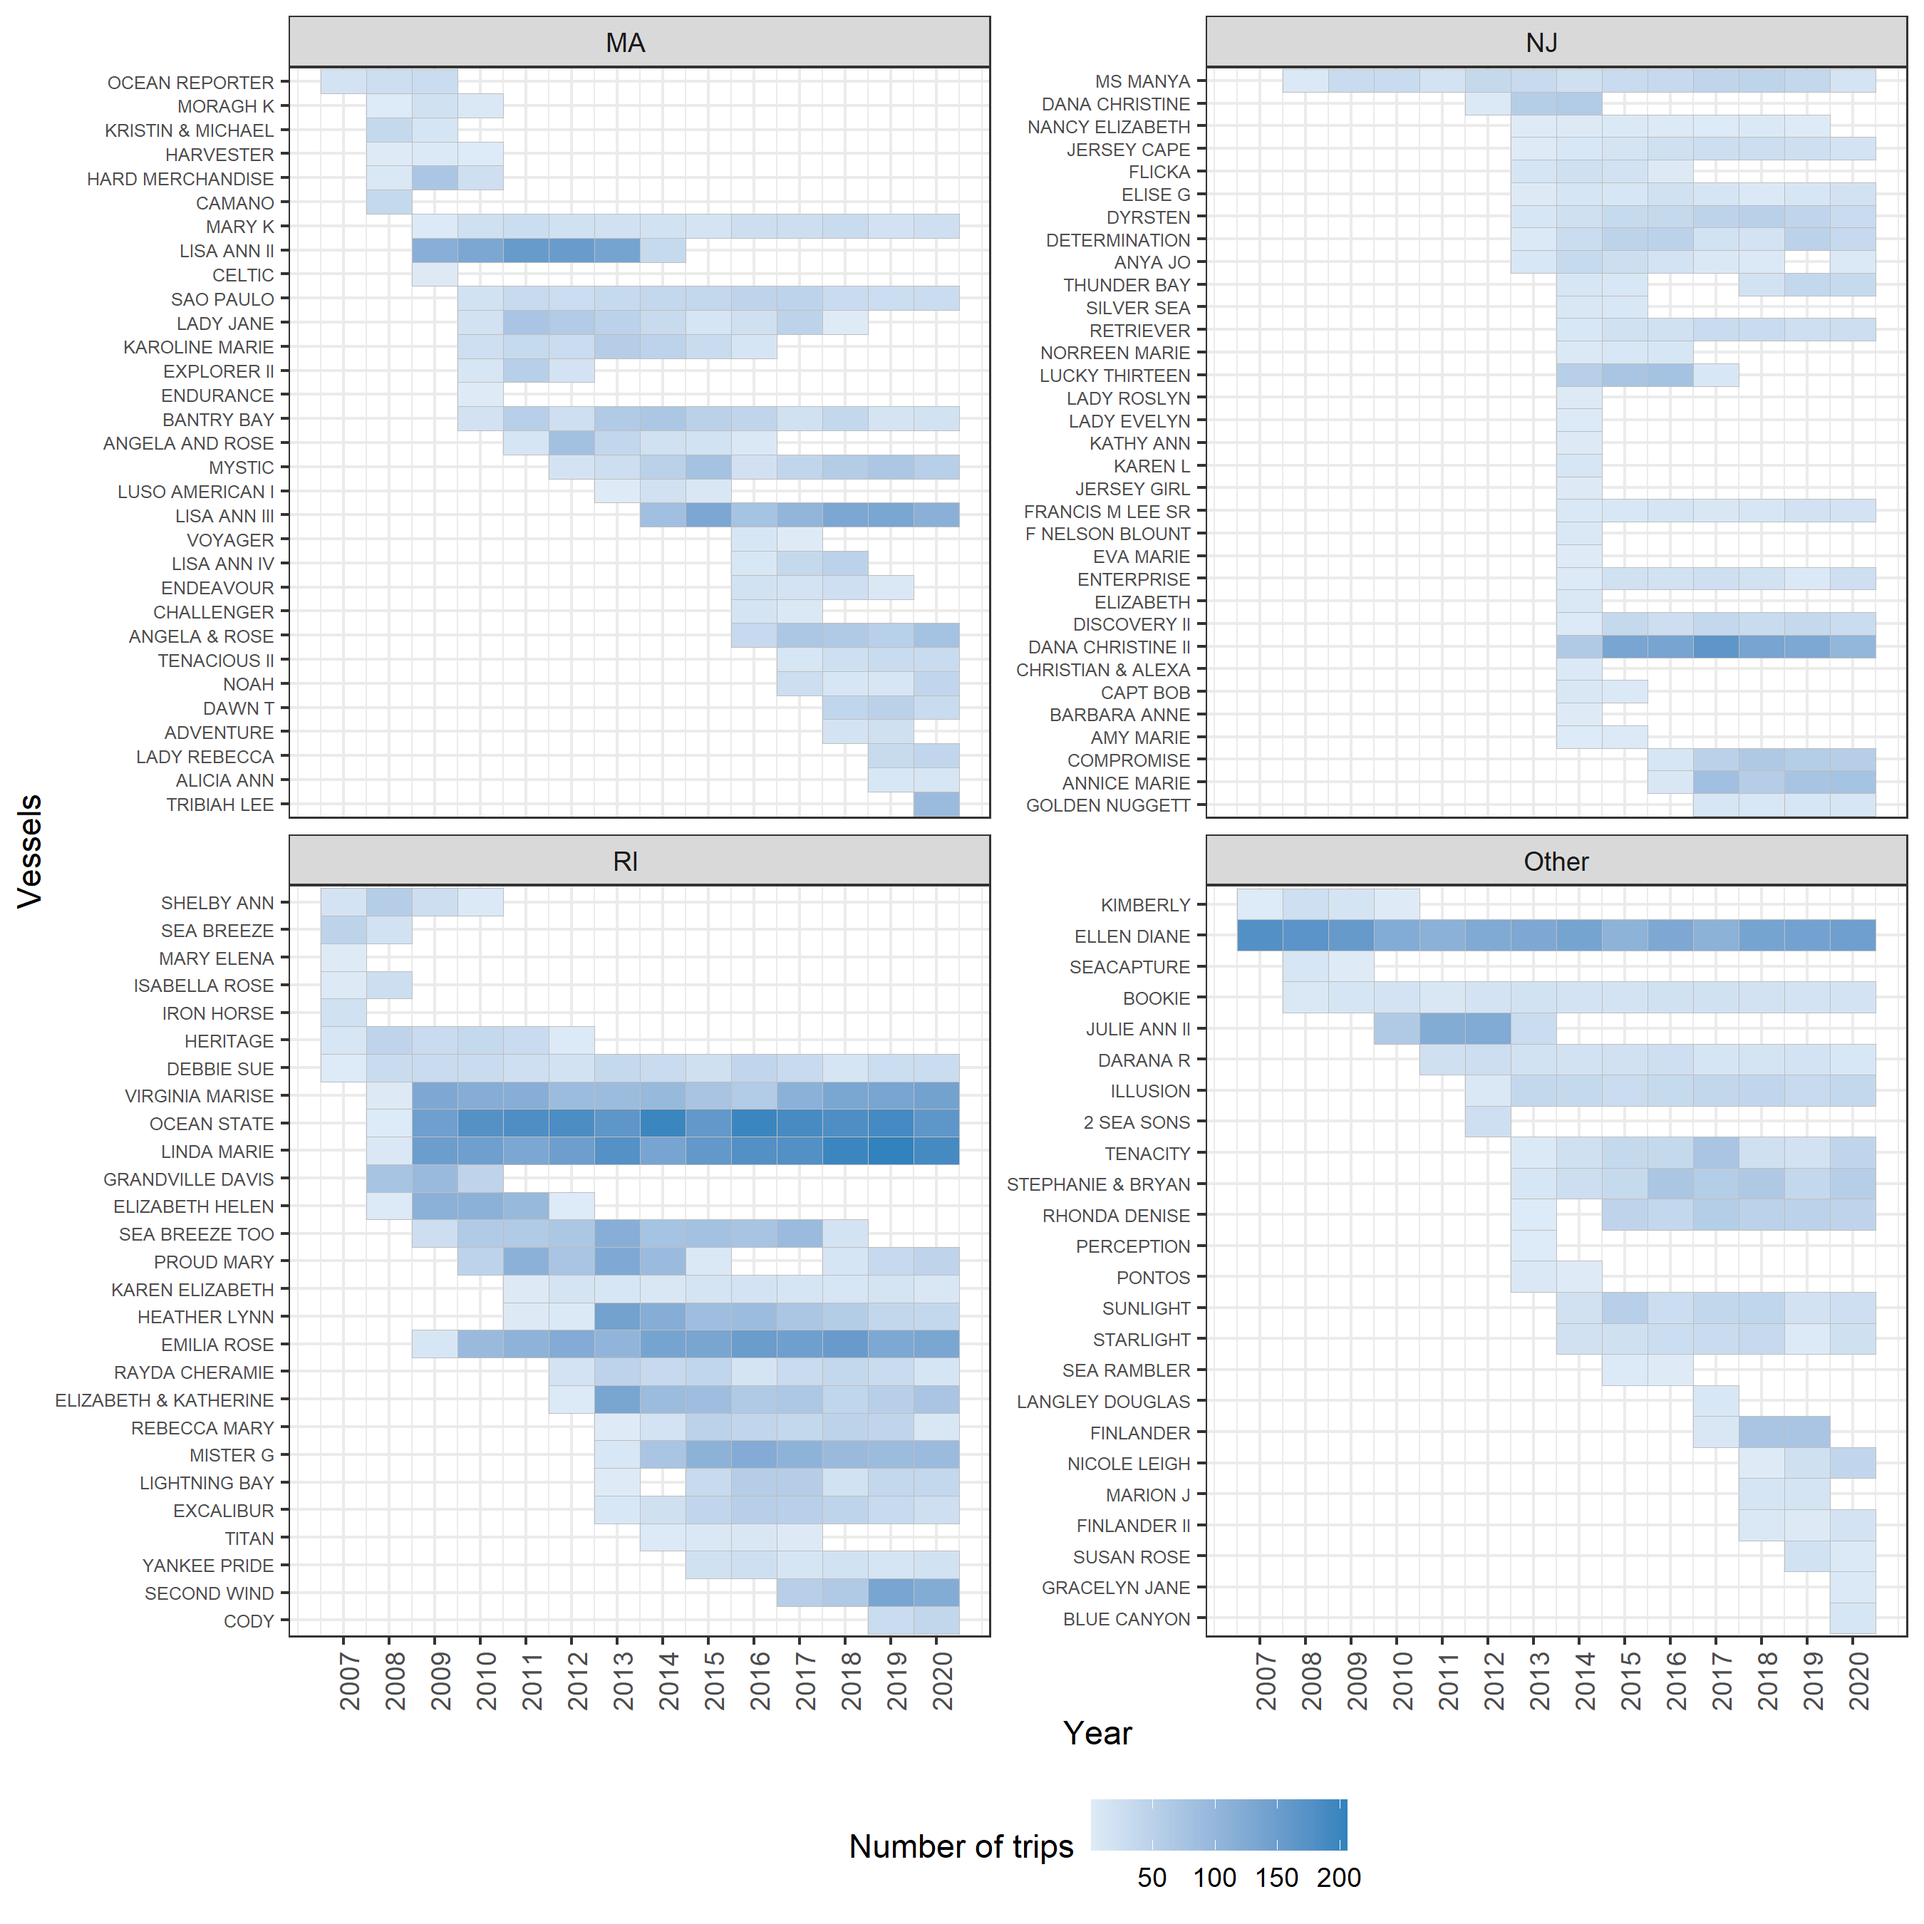
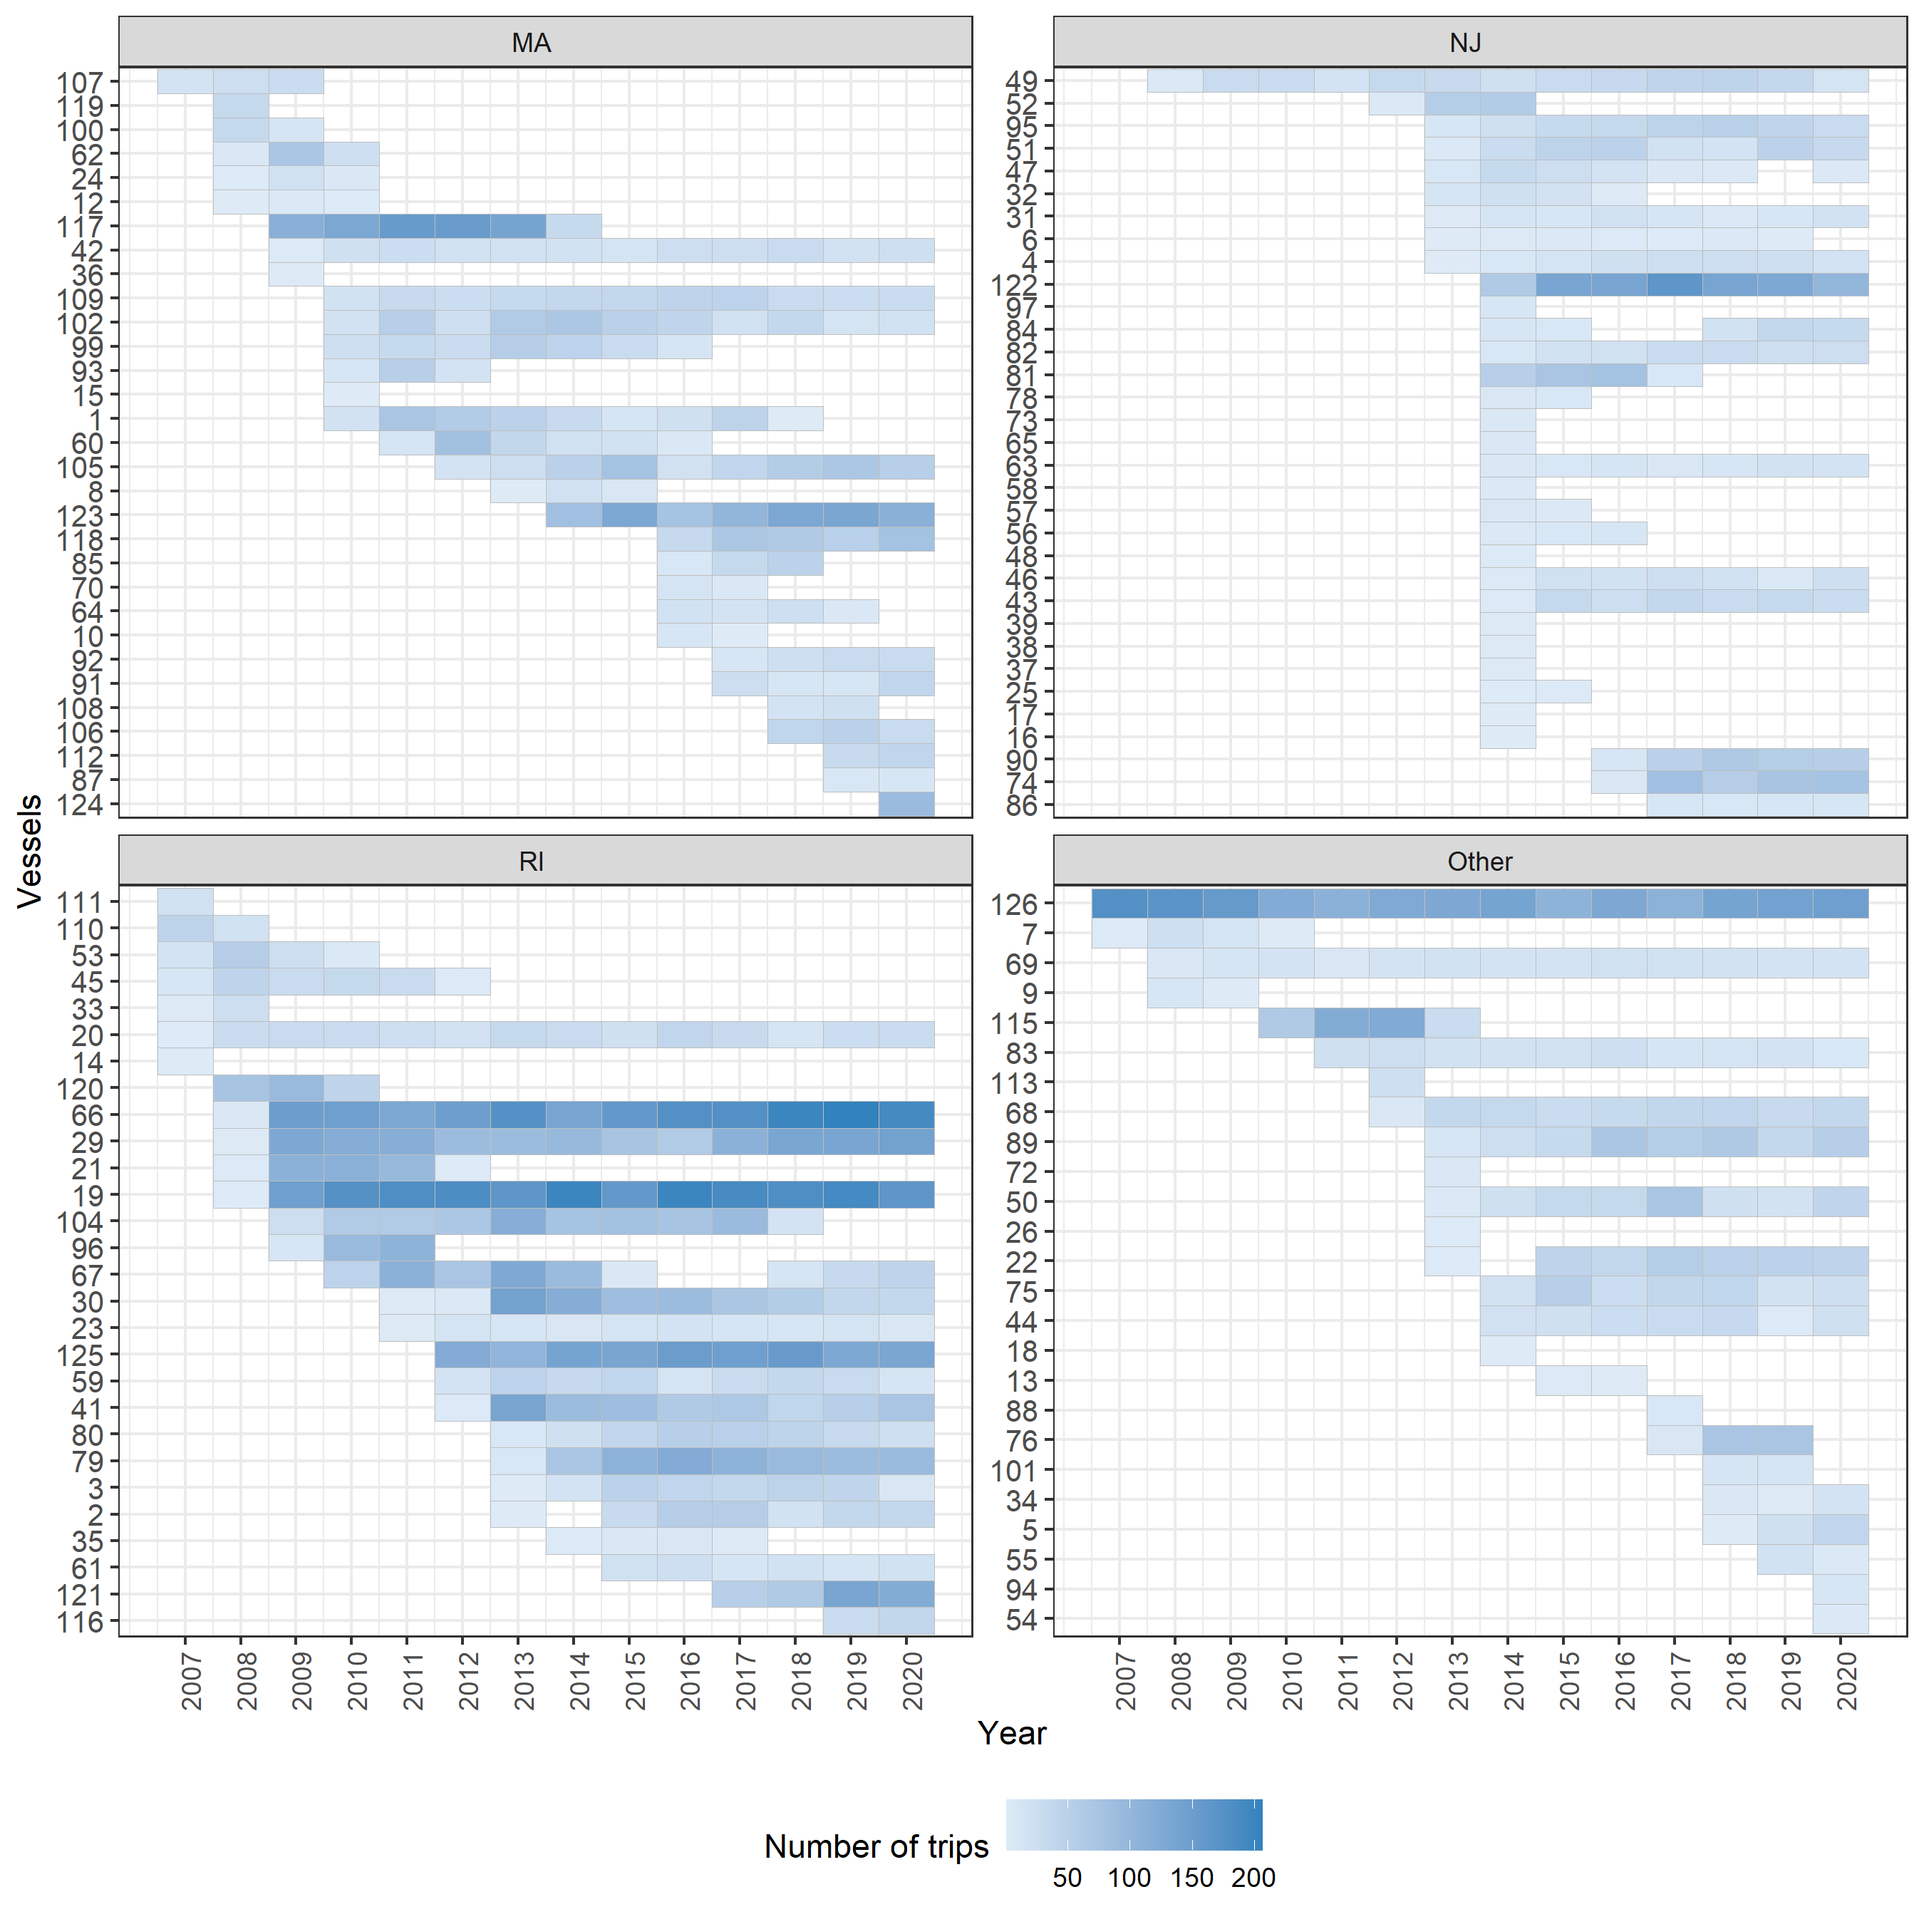
Updating the readme and github doc.

diff --git a/Analysis/Study-Fleet-Manuscript-Analysis-Only.md b/Analysis/Study-Fleet-Manuscript-Analysis-Only.md
@@ -1,7 +1,7 @@
 Study Fleet Manuscript Analysis
 ================
 Andy Jones
-Date & Time - 2021 December 17
+Date & Time - 2021 December 20
 
 Getting into the analysis with some summaries
 
@@ -31,11 +31,14 @@ gear_counts <- crpp_trip %>% mutate(YEAR=year(SAIL_DATE_GMT)) %>% dplyr::select(
 
 ``` r
 #Making two tables from these summaries
-bind_rows(tibble(Metric='Number of Vessels',ves_counts),tibble(Metric='Number of Trips',trip_counts),tibble(Metric='Number of Efforts',effort_counts)) %>% dplyr::select(-`2006`,-`2021`) %>% replace(is.na(.), 0) %>% group_by(Metric) %>% gt() %>% tab_header(title = "Metrics of Study Fleet Participation", subtitle ="From 2007 - 2020") %>% as_raw_html(., inline_css=FALSE)
+bind_rows(tibble(Metric='Number of Vessels',ves_counts),
+          tibble(Metric='Number of Trips',trip_counts),
+          tibble(Metric='Number of Efforts',effort_counts)) %>% 
+  dplyr::select(-`2006`,-`2021`) %>% replace(is.na(.), 0) %>% group_by(Metric) %>% gt() %>% tab_header(title = "Metrics of Study Fleet Participation", subtitle ="From 2007 - 2020")
 ```
 
 <div id="cakhquzlaa" style="overflow-x:auto;overflow-y:auto;width:auto;height:auto;">
-  <style>html {
+<style>html {
   font-family: -apple-system, BlinkMacSystemFont, 'Segoe UI', Roboto, Oxygen, Ubuntu, Cantarell, 'Helvetica Neue', 'Fira Sans', 'Droid Sans', Arial, sans-serif;
 }
 
@@ -372,7 +375,7 @@ bind_rows(tibble(Metric='Number of Vessels',ves_counts),tibble(Metric='Number of
   font-size: 65%;
 }
 </style>
-  <table class="gt_table">
+<table class="gt_table">
   <thead class="gt_header">
     <tr>
       <th colspan="15" class="gt_heading gt_title gt_font_normal" style>Metrics of Study Fleet Participation</th>
@@ -1477,11 +1480,11 @@ dealer_sum %>% inner_join(.,study_fleet_sum) %>% mutate(prop=SUM_HAIL_AMOUNT_LB/
   geom_line(aes(x=YEAR,y=prop,color='Prop. in SF'),colour='#352A87', size=1.2) +
   geom_point(aes(x=YEAR,y=SPPLNDLB/5,color='Total trend'),colour='#FBCD2D', size=3) +
   geom_line(aes(x=YEAR,y=SPPLNDLB/5,color='Total trend'),colour='#FBCD2D', size=1.2) +
-  labs(x='Year',y='Proportion of total species landings (closed)') +
+  labs(x='Year',y='Proportion of total species landings (Open)') +
   scale_x_continuous(breaks=c(2007:2020)) + theme_bw() +
   theme(axis.text.x = element_text(angle = 90, vjust = 0.5, hjust=1)) +
   facet_wrap(~COMNAME) +
-  scale_y_continuous(sec.axis = sec_axis(~.*5, name = "Total landings trend (open)")) +
+  scale_y_continuous(sec.axis = sec_axis(~.*5, name = "Total landings trend (Closed)")) +
   theme(axis.line.y.right = element_line(color = "#FBCD2D"),
        axis.ticks.y.right = element_line(color = "#FBCD2D"),
        #axis.text.y.right = element_text(color = "#FBCD2D"),
@@ -1601,12 +1604,12 @@ participation_data %>% left_join(VESSEL_PORT) %>% filter(YEAR < 2021) %>%
   ungroup() %>%
   mutate(Port=fct_lump(PPST,3)) %>%
   drop_na() %>%
-  ggplot(aes(x=YEAR,y=reorder(VESSEL_NAME,-min_year))) + 
+  ggplot(aes(x=YEAR,y=reorder(VESSEL_NUM,-min_year))) + 
   geom_tile(aes(fill=n),colour='Gray') +
   labs(x='Year',y='Vessels',fill='Number of trips') +
   scale_x_continuous(breaks=c(2007:2020)) + theme_bw() +
   theme(axis.text.x = element_text(angle = 90, vjust = 0.75, hjust=1),
-        axis.text.y = element_text(size=6),
+        axis.text.y = element_text(size=10),
         legend.position = 'bottom') +
   facet_wrap(~Port,scales='free_y') +
   scale_fill_gradient(low=as.vector(brewer.blues(3)[1]),

diff --git a/README.md b/README.md
@@ -7,6 +7,7 @@ Andrew Jones, Katie Burchard, Anna Mercer, John Hoey, Michael Morin, Giovanni Gi
 [Text for the manuscript can be found here](https://docs.google.com/document/d/1YDK3c8Nfrgd_alpOc7kiif1VO3wDthdvKf3CY3j4QTw/edit?usp=sharing).
 
 Supporting analyses are stored in this repositiory:
+
 - [Data pull file](https://github.com/AJONES8/FMRD_CRB_SF_Overview_MS/blob/main/Data%20Pull/Study%20Fleet%20Manuscript%20Pull%20Only.Rmd)
 - [Data analysis file](https://github.com/AJONES8/FMRD_CRB_SF_Overview_MS/blob/main/Analysis/Study%20Fleet%20Manuscript%20Analysis%20Only.Rmd)
 
